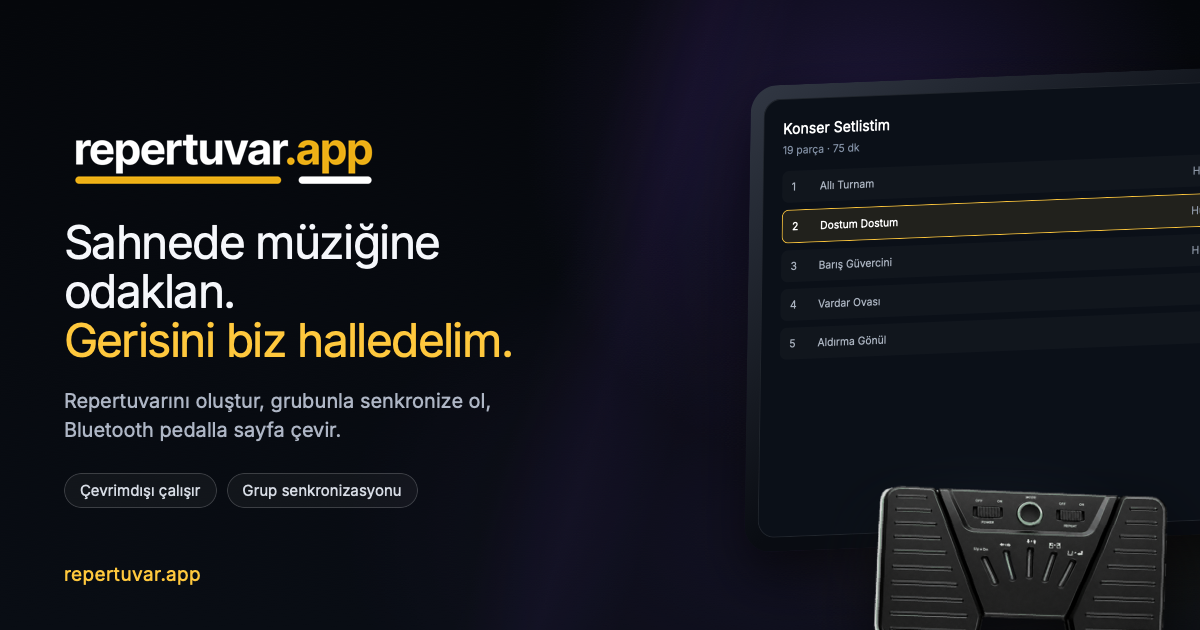
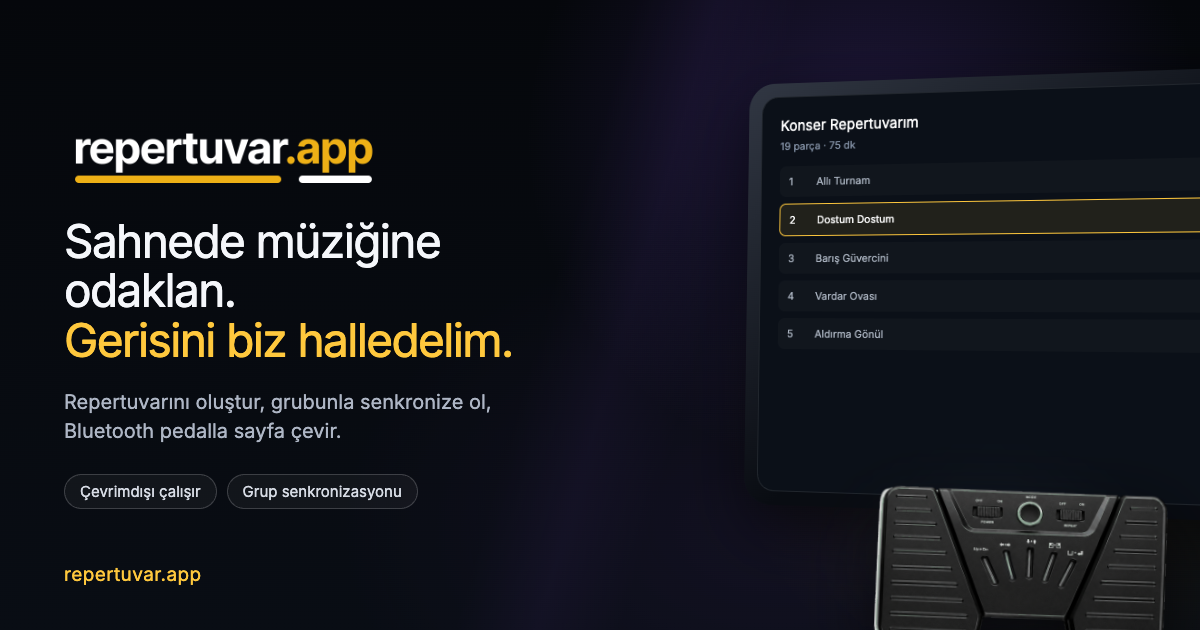
Turkce metinlerde setlist yerine repertuvar; giris basligi ve tablet listesi
- 'Setlist' gecen Turkce metinler Turkcelesti: giris tableti 'Konser Repertuvarim',
  tanitim 'Repertuvar, potpuri ve makam sirasi tek ekranda', SSS + FAQ semasi
  'repertuvar ve sahne yonetim uygulamasi' (EN: setlist and stage manager)
- giris.html basligi: 'Muzisyenler Icin' beyaz, 'Repertuvar ve Sahne Yonetimi' sari
  (EN: For Musicians / Setlist & Stage Management)
- giris.html tablet listesi dile gore: TR Turk muzigi (makam + karar), EN Ingilizce
  sarkilar (tempo + ton); data-noi18n + html[lang] ile secilir
- og-image: 'Konser Repertuvarim'; sablon yayindaki gorselle ayni agirlikta (400)
  sabitlendi ve PNG yeniden uretildi; og:image/twitter:image ?v=20261005 (onbellek)

diff --git a/giris.html b/giris.html
@@ -75,7 +75,7 @@
         <span class="mark"><svg viewBox="100 90 300 330" fill="#FFC83D"><rect x="212" y="108" width="58" height="218"/><path d="M262 168 C 274 128 304 104 346 104 L346 162 C 306 158 280 176 270 206 Z"/><rect x="128" y="358" width="257" height="50" rx="25"/></svg></span>
         <div><b>Repertuvar.app</b></div>
       </div>
-      <h2 class="rv" style="transition-delay:.12s">Müzisyenler İçin<br>Repertuvar ve <em>Sahne Yönetimi</em></h2>
+      <h2 class="rv" style="transition-delay:.12s">Müzisyenler İçin<br><em>Repertuvar ve Sahne Yönetimi</em></h2>
       <div class="b-list rv" style="transition-delay:.2s"><span>Çevrimdışı çalışır</span><span>Bluetooth pedal</span><span>Grup senkronizasyonu</span></div>
     </div>
 
@@ -88,14 +88,26 @@
             <a class="on">Repertuvarlar</a><a>Eserler</a><a>Gruplar</a><a>Mesajlar</a><a>İstatistikler</a>
           </div>
           <div class="app-main">
-            <div class="h"><span>Konser Setlistim ⌄</span><span>•••</span></div>
+            <div class="h"><span>Konser Repertuvarım ⌄</span><span>•••</span></div>
             <div class="s">19 Parça · 75 dk</div>
-            <div class="tr on"><span>1</span><span>Allı Turnam</span><span class="m">Hüseyni</span><span class="k">La</span></div>
-            <div class="tr"><span>2</span><span>Dostum Dostum</span><span class="m">Hüseyni</span><span class="k">La</span></div>
-            <div class="tr"><span>3</span><span>Barış Güvercini</span><span class="m">Hüseyni</span><span class="k">La</span></div>
-            <div class="tr"><span>4</span><span>Vardar Ovası</span><span class="m">Hicaz</span><span class="k">La</span></div>
-            <div class="tr"><span>5</span><span>Aldırma Gönül</span><span class="m">Hicaz</span><span class="k">La</span></div>
-            <div class="tr"><span>6</span><span>Bedir Geliyor</span><span class="m">Hicaz</span><span class="k">La</span></div>
+            <!-- (2026-10-05) Liste dile göre: TR Türk müziği (makam + karar), EN İngilizce şarkılar (tempo + ton).
+                 Çeviri sistemi dokunmasın (data-noi18n); hangisinin görüneceğini auth.css html[lang] ile seçer. -->
+            <div class="liste-tr" data-noi18n>
+              <div class="tr on"><span>1</span><span>Allı Turnam</span><span class="m">Hüseyni</span><span class="k">La</span></div>
+              <div class="tr"><span>2</span><span>Dostum Dostum</span><span class="m">Hüseyni</span><span class="k">La</span></div>
+              <div class="tr"><span>3</span><span>Barış Güvercini</span><span class="m">Hüseyni</span><span class="k">La</span></div>
+              <div class="tr"><span>4</span><span>Vardar Ovası</span><span class="m">Hicaz</span><span class="k">La</span></div>
+              <div class="tr"><span>5</span><span>Aldırma Gönül</span><span class="m">Hicaz</span><span class="k">La</span></div>
+              <div class="tr"><span>6</span><span>Bedir Geliyor</span><span class="m">Hicaz</span><span class="k">La</span></div>
+            </div>
+            <div class="liste-en" data-noi18n>
+              <div class="tr on"><span>1</span><span>Perfect</span><span class="m">63 BPM</span><span class="k">A♭</span></div>
+              <div class="tr"><span>2</span><span>L-O-V-E</span><span class="m">130 BPM</span><span class="k">G</span></div>
+              <div class="tr"><span>3</span><span>Moon River</span><span class="m">90 BPM</span><span class="k">C</span></div>
+              <div class="tr"><span>4</span><span>Valerie</span><span class="m">100 BPM</span><span class="k">E♭</span></div>
+              <div class="tr"><span>5</span><span>Superstition</span><span class="m">100 BPM</span><span class="k">E♭m</span></div>
+              <div class="tr"><span>6</span><span>September</span><span class="m">126 BPM</span><span class="k">A</span></div>
+            </div>
           </div>
         </div>
       </div>

diff --git a/assets/site-en.js b/assets/site-en.js
@@ -22,7 +22,7 @@ window.SITE_EN={
 "Değişiklikler anında herkese ulaşır.": "Every change reaches everyone instantly.",
 "Güvenli Yedekleme": "Safe Backup",
 "Verilerin güvende kalır.": "Your setlists are never lost.",
-"Konser Setlistim ⌄": "My Concert Set ⌄",
+"Konser Repertuvarım ⌄": "My Concert Set ⌄",
 "19 Parça · 75 dk": "19 songs · 75 min",
 "La": "A",
 "Repertuvar güncellendi": "Setlist updated",
@@ -34,7 +34,7 @@ window.SITE_EN={
 "Akıllı sıralama": "Smart sorting",
 "Bluetooth pedal ile kontrol": "Bluetooth pedal control",
 "Eser notları ve kişisel notlar": "Shared and private notes",
-"Setlist, potpuri ve makam sırası tek ekranda. Sahnede telefona değil, müziğe bak.": "Setlist, medleys and makam order on one screen. On stage, watch the music, not your phone.",
+"Repertuvar, potpuri ve makam sırası tek ekranda. Sahnede telefona değil, müziğe bak.": "Setlist, medleys and makam order on one screen. On stage, watch the music, not your phone.",
 "Özellikleri gör": "See features",
 "Hakkımızda": "About Us",
 "Repertuvar.app ve sahnedeki müzisyen": "Repertuvar.app and the musician on stage",
@@ -175,7 +175,7 @@ window.SITE_EN={
 "Başlarken": "Getting started",
 "Uygulamayı tanımak ve kurmak.": "Getting to know and setting up the app.",
 "Repertuvar.app nedir?": "What is Repertuvar.app?",
-"Repertuvar.app, sahneye çıkan müzisyenler, gruplar ve korolar için bir repertuvar ve setlist yönetim uygulamasıdır. Eserleri sürükle-bırak ile sıralar, potpuri oluşturur, makama göre düzenler ve sahnede Bluetooth pedalla yönetirsin.": "Repertuvar.app is a repertoire and setlist manager for performing musicians, bands and choirs. Order pieces with drag and drop, build medleys, group by makam, and run the show with a Bluetooth pedal.",
+"Repertuvar.app, sahneye çıkan müzisyenler, gruplar ve korolar için bir repertuvar ve sahne yönetim uygulamasıdır. Eserleri sürükle-bırak ile sıralar, potpuri oluşturur, makama göre düzenler ve sahnede Bluetooth pedalla yönetirsin.": "Repertuvar.app is a setlist and stage manager for performing musicians, bands and choirs. Order pieces with drag and drop, build medleys, group by makam, and run the show with a Bluetooth pedal.",
 "Repertuvar.app hangi cihazlarda çalışır?": "Which devices does Repertuvar.app run on?",
 "Repertuvar.app web tarayıcısında çalışır; telefonda ve tablette ana ekrana eklenerek uygulama gibi kullanılabilir.": "Repertuvar.app runs in your web browser; on phones and tablets, add it to your home screen to use it like an app.",
 "Repertuvar.app internet olmadan çalışır mı?": "Does Repertuvar.app work without internet?",
@@ -264,8 +264,7 @@ window.SITE_EN={
 "'nı kabul ediyorum.": ".",
 "Zaten hesabın var mı?": "Already have an account?",
 "Müzisyenler İçin": "For Musicians",
-"Repertuvar ve": "Setlist &",
-"Sahne Yönetimi": "Stage Management",
+"Repertuvar ve Sahne Yönetimi": "Setlist & Stage Management",
 "Repertuvar Yönetimi": "Setlist Management",
 "Çevrimdışı çalışır": "Works offline",
 "Bluetooth pedal": "Bluetooth pedal",

diff --git a/og-image.html b/og-image.html
@@ -82,7 +82,7 @@
   .logo{ width:318px; height:74px; display:block; flex:0 0 auto; object-fit:contain; }
   .baslik{
     margin:0; font-size:46px; line-height:1.08; letter-spacing:-.035em;
-    font-weight:800; max-width:520px;
+    font-weight:400; max-width:520px; /* 2026-10-05: yayındaki og-image.png bu ağırlıkla çekilmişti */
   }
   .baslik .vurgu{ color:var(--orange); }
   .alt{
@@ -149,6 +149,9 @@
     line-height:1.6; font-family:ui-monospace,monospace;
   }
   @media print{ .yardim{ display:none; } }
+  /* 2026-10-05: yayındaki og-image.png'de bütün metin 400 ağırlıkla çizilmişti; yeniden
+     üretilen görsel onaylı görünümden sapmasın diye sabitlendi. */
+  .og *{font-weight:400 !important}
 </style>
 </head>
 <body>
@@ -166,7 +169,7 @@
 
     <div class="tablet">
       <div class="ekran">
-        <div class="ekran-bas"><span>Konser Setlistim</span><span>•••</span></div>
+        <div class="ekran-bas"><span>Konser Repertuvarım</span><span>•••</span></div>
         <div class="ekran-alt">19 parça · 75 dk</div>
         <div class="liste">
           <div class="satir"><span>1</span><span>Allı Turnam</span><span class="ton">Hüseyni</span></div>

diff --git a/assets/auth.css b/assets/auth.css
@@ -112,6 +112,9 @@ form{display:flex;flex-direction:column;gap:16px}
 .tr .m{color:var(--sand);font-size:12px;text-align:right}
 .tr .k{justify-self:end;background:rgba(255,200,61,.14);color:var(--primary);border-radius:5px;padding:1px 6px;font-size:11px}
 .tr.on{background:rgba(255,200,61,.12);border-color:rgba(255,200,61,.5)}
+/* (2026-10-05) tablet listesi dile göre (giris.html): TR makam + karar, EN tempo + ton */
+html[lang="en"] .liste-tr,html:not([lang="en"]) .liste-en{display:none}
+.liste-en .tr{grid-template-columns:20px 1fr 64px 34px}
 
 /* görünüme girince bulanıktan netleşme */
 .rv{opacity:0;transform:translateY(14px);filter:blur(7px);transition:opacity .8s cubic-bezier(.22,1,.36,1),transform .8s cubic-bezier(.22,1,.36,1),filter .8s ease}
